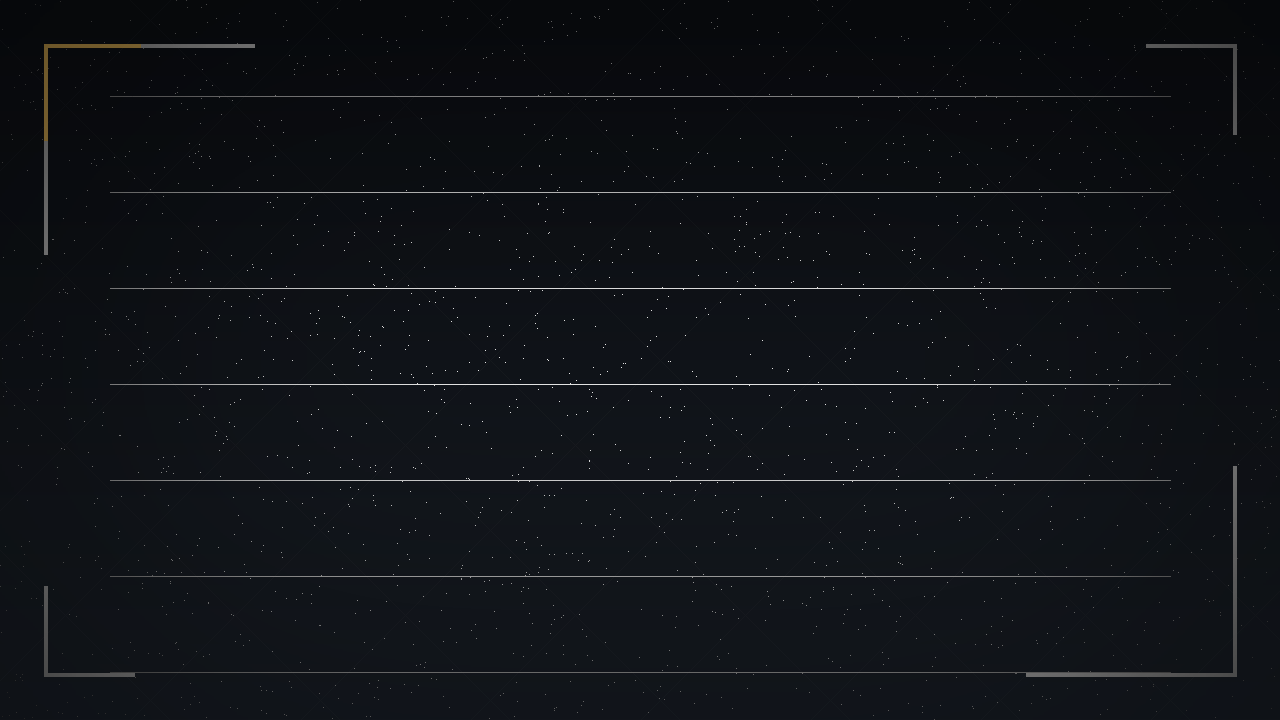
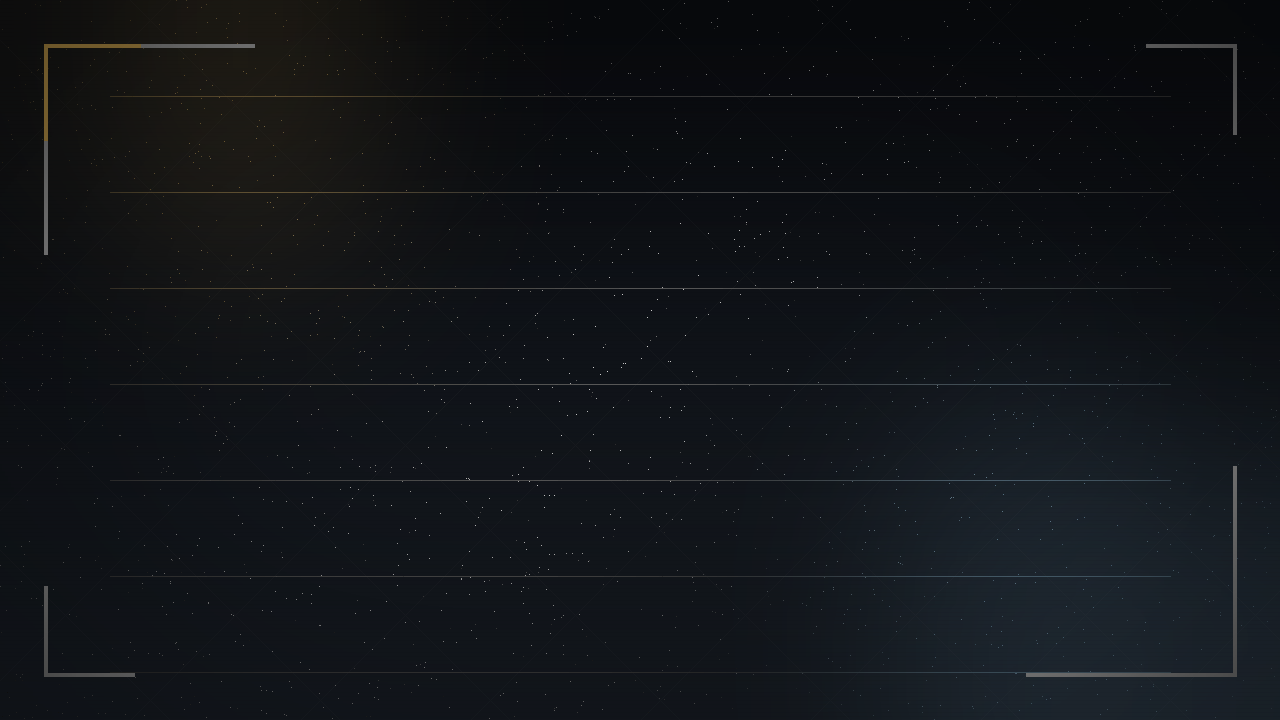
feat: 整体美观性优化 —— 章节选择专用屏 + 存档/历史/占位页视觉升级
P0 缺失项补齐:
- 新增 chapter_select_menu 专用屏，替代引擎默认 menu（此前点「主线模式」弹出朴素文字列表，与方舟风断层）
- 章节卡支持三态：可玩 / hover 琥珀高亮 / 未解锁灰化，带大号章节序号与右端楔形标记
- 存档缩略图外包科技细框（thumb_frame，四角琥珀切角）
- 新增页码指示：当前页实心琥珀点 + 其余空心点（替代纯文字翻页）
- 历史记录改为条目化：每条带左侧冷蓝竖条 + 半透明底框，空态补引导文案

P1 一致性:
- 模式选择 / 章节选择 / 占位页标题统一「琥珀竖条 + 标题 + 英文角标」三件套
- notice_screen 支持 notice_tag 与 notice_items，四个占位模块各有英文角标与规划条目列表，不再是千篇一律的大段文字
- 标题画面副标题改为两侧细线夹持的居中排版，制作信息移到左下

P2 质感:
- 背景新增品牌色氛围光斑（左上琥珀 / 右下冷蓝）+ 极细扫描线，强化方舟科技纵深
- 快捷栏激活态（自动/快进）文字转琥珀
- 清理误引入的未引用 screen（dialogue_footer）

素材 19→26 张；check_assets 同步更新

diff --git a/tools/gen_ui.py b/tools/gen_ui.py
@@ -127,11 +127,37 @@ def add_vignette(img, strength=90):
     return img
 
 
+def add_scanlines(img, step=4, alpha=10):
+    """极细扫描线，增强方舟科技质感"""
+    overlay = Image.new("RGBA", img.size, (0, 0, 0, 0))
+    d = ImageDraw.Draw(overlay)
+    w, h = img.size
+    for y in range(0, h, step):
+        d.line([(0, y), (w, y)], fill=(0, 0, 0, alpha), width=1)
+    return Image.alpha_composite(img, overlay)
+
+
+def add_glow_spots(img, spots, blur=120, alpha=42):
+    """低透明度发光斑，给深色底加入纵深与品牌色氛围"""
+    overlay = Image.new("RGBA", img.size, (0, 0, 0, 0))
+    d = ImageDraw.Draw(overlay)
+    for (cx, cy, r, color) in spots:
+        d.ellipse([cx - r, cy - r, cx + r, cy + r], fill=color + (alpha,))
+    overlay = overlay.filter(ImageFilter.GaussianBlur(blur))
+    return Image.alpha_composite(img, overlay)
+
+
 def make_bg(name, left_band=False):
     img = vgradient(W, H, BG_TOP, BG_BOTTOM)
     img = add_diag_grid(img)
     img = add_hairlines(img)
     img = add_noise(img)
+    # 品牌色氛围光斑（琥珀左上 + 冷蓝右下），先于扫描线以便被压暗
+    img = add_glow_spots(img, [
+        (240, 130, 210, ACCENT),
+        (W - 220, H - 140, 250, COOL),
+    ])
+    img = add_scanlines(img)
     add_corner_brackets(img)
     add_accent_block(img, (44, 44), (3, 96), 90)
     add_accent_block(img, (44, 44), (96, 3), 90)
@@ -256,11 +282,63 @@ def make_checker():
     img.save(os.path.join(OUT, "placeholder.png"))
 
 
+def make_extra_frames():
+    """章节选择 / 历史 / 存档缩略图 等补充素材"""
+
+    # 章节卡（border 16）：整块横向，左侧竖琥珀条更粗，右端带楔形标记
+    img = rounded_panel(128, 128, (17, 22, 28, 246), PANEL_BORDER, radius=6,
+                        accent_bar=(ACCENT + (215,), 6))
+    d = ImageDraw.Draw(img, "RGBA")
+    # 右端楔形（向内收的装饰缺口）
+    d.polygon([(127, 32), (112, 64), (127, 96)], fill=(0, 0, 0, 0))
+    d.polygon([(127, 40), (118, 64), (127, 88)], fill=ACCENT + (200,))
+    img.save(os.path.join(OUT, "chapter_card.png"))
+
+    img = rounded_panel(128, 128, (30, 38, 47, 250), ACCENT + (200,), radius=6,
+                        accent_bar=(ACCENT + (255,), 6), glow=True)
+    d = ImageDraw.Draw(img, "RGBA")
+    d.polygon([(127, 32), (112, 64), (127, 96)], fill=(0, 0, 0, 0))
+    d.polygon([(127, 40), (118, 64), (127, 88)], fill=ACCENT + (255,))
+    img.save(os.path.join(OUT, "chapter_card_hover.png"))
+
+    # 历史条目底（border 12）：极淡底 + 左侧冷蓝细条
+    img = rounded_panel(96, 96, (255, 255, 255, 8), (255, 255, 255, 0), radius=4)
+    d = ImageDraw.Draw(img, "RGBA")
+    d.rectangle([0, 0, 2, 95], fill=COOL + (110,))
+    img.save(os.path.join(OUT, "hist_item.png"))
+
+    # 缩略图框（border 8）：深底 + 细描边，给 FileScreenshot 做包边
+    img = rounded_panel(64, 64, (7, 9, 12, 255), (46, 55, 66, 255), radius=4)
+    d = ImageDraw.Draw(img, "RGBA")
+    # 四角小切角，呼应科技风
+    for (x, y, dx, dy) in [(0, 0, 1, 1), (63, 0, -1, 1), (0, 63, 1, -1), (63, 63, -1, -1)]:
+        d.line([(x, y), (x + dx * 9, y)], fill=ACCENT + (150,), width=2)
+        d.line([(x, y), (x, y + dy * 9)], fill=ACCENT + (150,), width=2)
+    img.save(os.path.join(OUT, "thumb_frame.png"))
+
+    # 页码指示：当前页琥珀实心 / 其他冷灰空心
+    img = Image.new("RGBA", (12, 12), (0, 0, 0, 0))
+    d = ImageDraw.Draw(img)
+    d.ellipse([2, 2, 9, 9], fill=ACCENT + (255,))
+    img.save(os.path.join(OUT, "page_dot_on.png"))
+
+    img = Image.new("RGBA", (12, 12), (0, 0, 0, 0))
+    d = ImageDraw.Draw(img)
+    d.ellipse([3, 3, 8, 8], outline=(120, 130, 142, 220), width=1)
+    img.save(os.path.join(OUT, "page_dot_off.png"))
+
+    # 章节卡禁用态（未解锁）
+    rounded_panel(128, 128, (13, 16, 20, 235), (34, 40, 48, 255), radius=6,
+                  accent_bar=((90, 96, 105, 150), 6)).save(
+        os.path.join(OUT, "chapter_card_locked.png"))
+
+
 def main():
     ensure_dir()
     make_bg("bg_main.png")
     make_bg("bg_menu.png", left_band=True)
     make_frames()
+    make_extra_frames()
     make_title_rule()
     make_deco_line()
     make_ctc_arrow()

diff --git a/tools/check_assets.py b/tools/check_assets.py
@@ -14,6 +14,9 @@ expected = {
     "quickbar.png": (96, 96), "rule.png": (420, 2),
     "ctc.png": (20, 12), "placeholder.png": (32, 32),
     "deco_line.png": (640, 16), "bar_fill.png": (16, 16), "bar_track.png": (16, 16),
+    "chapter_card.png": (128, 128), "chapter_card_hover.png": (128, 128),
+    "chapter_card_locked.png": (128, 128), "hist_item.png": (96, 96),
+    "thumb_frame.png": (64, 64), "page_dot_on.png": (12, 12), "page_dot_off.png": (12, 12),
 }
 
 lines = []
